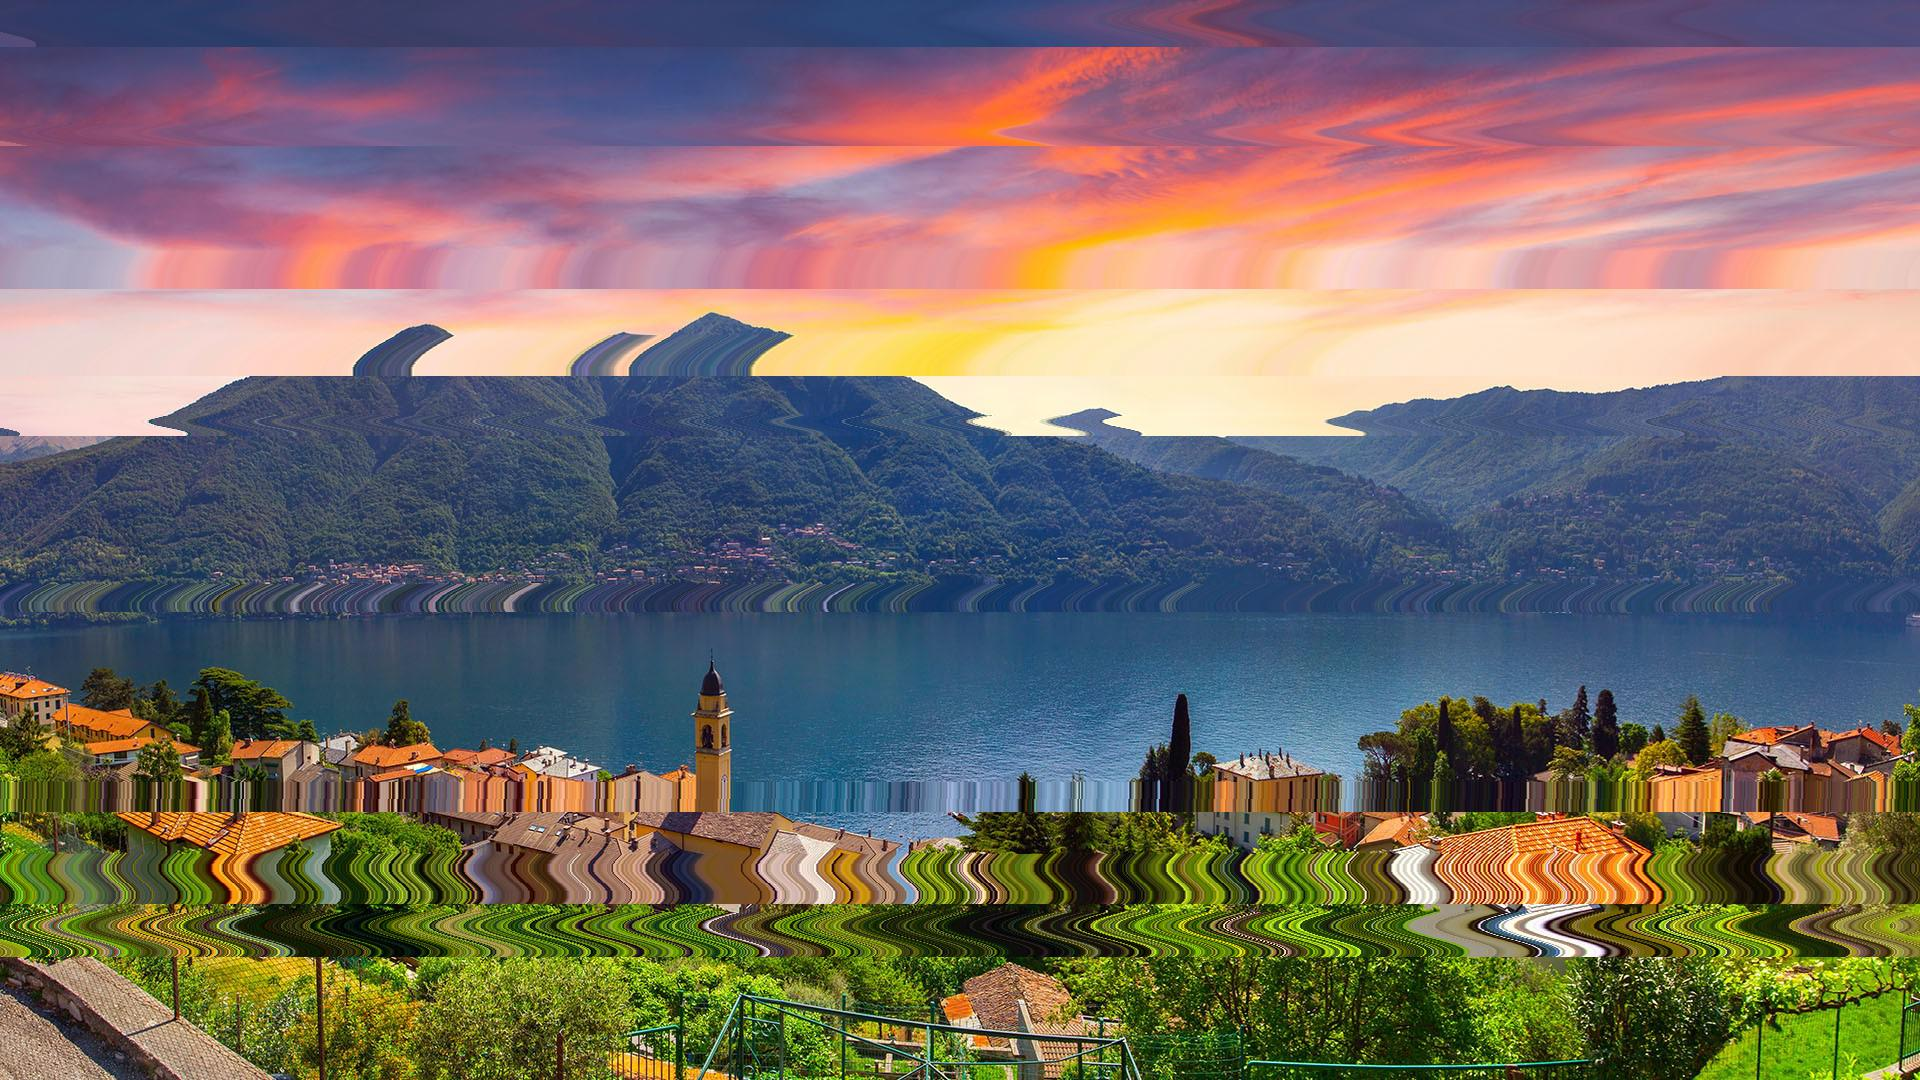
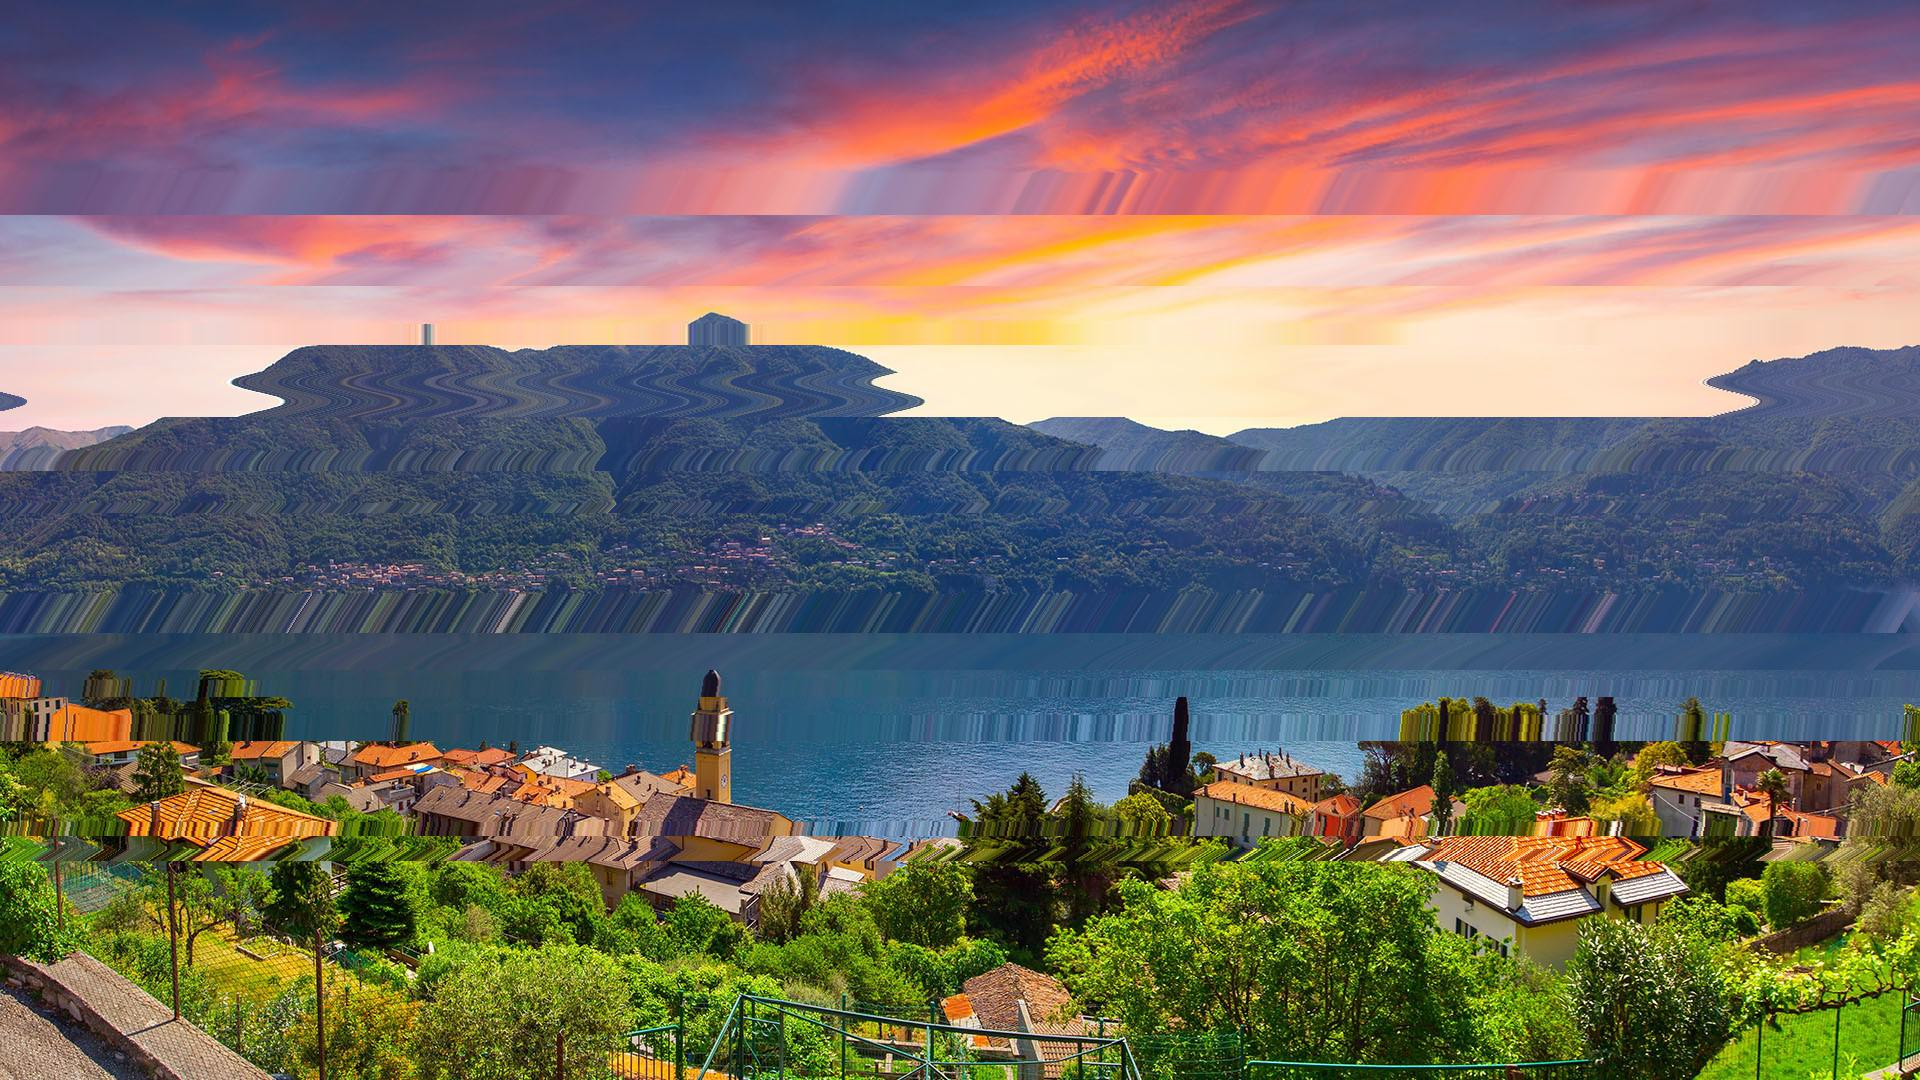
Changed max peridicity

diff --git a/main.py b/main.py
@@ -11,8 +11,9 @@ from math import floor
 
 
 def generate_offsets(array_size, max_offset):
-    periodicity = random.randint(1, 20)
+    periodicity = random.randint(1, 10)
     periodicity = random.random() * periodicity
+    print(periodicity)
     offsets = []
     for i in range(array_size):
         # print(floor(max_offset*np.sin(periodicity*(i*np.pi/180))))
